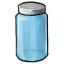
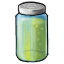
Org

diff --git a/src/nurgling/actions/bots/registry/BotRegistry.java b/src/nurgling/actions/bots/registry/BotRegistry.java
@@ -4,13 +4,14 @@ import nurgling.actions.*;
 import nurgling.actions.bots.farmers.PumpkinFarmer;
 import nurgling.actions.bots.*;
 import nurgling.actions.bots.CarrotFarmerQ;
-import nurgling.actions.bots.silk.ArrangeSilkmothPairs;
+import nurgling.actions.bots.pickling.GlobalFreshFillingPhase;
 import nurgling.actions.bots.silk.RefillSilkwormFeedingCupboards;
 import nurgling.actions.bots.silk.SilkProductionBot;
 import nurgling.actions.bots.CollectSwillInArea;
 import nurgling.actions.bots.farmers.WheatFarmer;
 import nurgling.actions.bots.farmers.YellowOnionFarmer;
 import nurgling.actions.test.*;
+import nurgling.actions.bots.pickling.PicklingBot;
 
 import java.util.*;
 import java.util.stream.Collectors;
@@ -68,6 +69,8 @@ public class BotRegistry {
         // Silk
         bots.add(new BotDescriptor("mulberry_leaf_refiller", BotDescriptor.BotType.PRODUCTIONS, "Refill silkworm cupboards with mulberry leafs", "Refill silkworm cupboards with mulberry leafs.", true, true, RefillSilkwormFeedingCupboards.class, "mulberry_leaf", false));
         bots.add(new BotDescriptor("silk_production", BotDescriptor.BotType.PRODUCTIONS, "Manages silk production starting at eggs all the way to silkworm cocoons.", "Silk cocoons production.", true, true, SilkProductionBot.class, "silkworm_cocoon", false));
+
+        bots.add(new BotDescriptor("pickling", BotDescriptor.BotType.PRODUCTIONS, "Pickling Bot", "Complete automated pickling system. Manages brine levels, fills jars with fresh vegetables, extracts ready pickled items, and maintains continuous production cycle.", true, true, PicklingBot.class, "pickle", true));
 
         // BATTLE
         bots.add(new BotDescriptor("reagro", BotDescriptor.BotType.BATTLE, "Reagro", "Reagros enemies.", true, true, Reagro.class, "reagro", false));
@@ -193,10 +196,10 @@ public class BotRegistry {
         bots.add(new BotDescriptor("test37", BotDescriptor.BotType.TOOLS, "Jar Filler With Beetroots", "Finds pickling jars with available space and fills them with beetroots from player inventory.", false, true, JarFillerWithBeetroots.class, "test37", false));
         bots.add(new BotDescriptor("test38", BotDescriptor.BotType.TOOLS, "Pickling Brine Filler", "Fills pickling jars with brine from nearby barrels. Takes multiple trips as needed.", false, true, PicklingBrineFiller.class, "test38", false));
 
-        bots.add(new BotDescriptor("test39", BotDescriptor.BotType.TOOLS, "Pickling Brine Filler", "Fills pickling jars with brine from nearby barrels. Takes multiple trips as needed.", false, true, GlobalBrinePhase.class, "test39", false));
+        bots.add(new BotDescriptor("test39", BotDescriptor.BotType.TOOLS, "Pickling Brine Filler", "Fills pickling jars with brine from nearby barrels. Takes multiple trips as needed.", false, true, nurgling.actions.bots.pickling.GlobalBrinePhase.class, "test39", false));
         bots.add(new BotDescriptor("test40", BotDescriptor.BotType.TOOLS, "Debug Container Contents", "Debug tool to see what items are actually in containers and test alias matching.", false, true, DebugContainerContents.class, "test40", false));
         bots.add(new BotDescriptor("test41", BotDescriptor.BotType.TOOLS, "Global Fresh Filling Phase", "Fills pickling jars with beetroots from vegetable storage area. Uses global phase processing for efficiency.", false, true, GlobalFreshFillingPhase.class, "test41", true));
-        bots.add(new BotDescriptor("test42", BotDescriptor.BotType.TOOLS, "Global Fresh Filling Phase", "Fills pickling jars with beetroots from vegetable storage area. Uses global phase processing for efficiency.", false, true, GlobalExtractionPhase.class, "test42", false));
+        bots.add(new BotDescriptor("test42", BotDescriptor.BotType.TOOLS, "Global Fresh Filling Phase", "Fills pickling jars with beetroots from vegetable storage area. Uses global phase processing for efficiency.", false, true, nurgling.actions.bots.pickling.GlobalExtractionPhase.class, "test42", false));
     }
 
     public static BotDescriptor byId(String id) {

diff --git a/src/nurgling/actions/bots/pickling/PicklingBot.java b/src/nurgling/actions/bots/pickling/PicklingBot.java
@@ -1,0 +1,38 @@
+package nurgling.actions.bots.pickling;
+
+import nurgling.NGameUI;
+import nurgling.actions.Action;
+import nurgling.actions.Results;
+
+public class PicklingBot implements Action {
+
+    @Override
+    public Results run(NGameUI gui) throws InterruptedException {
+        while (true) {
+            // Phase 1: Fill pickling jars with fresh inputs (We have to do this to make sure we don't overfill jars
+            // with brine)
+            Results fillResult = new GlobalFreshFillingPhase().run(gui);
+            if (!fillResult.isSuccess) {
+                return Results.FAIL();
+            }
+
+            // Phase 2: Re-fill brine
+            Results brineResult = new GlobalBrinePhase().run(gui);
+            if (!brineResult.isSuccess) {
+                return Results.FAIL();
+            }
+
+            // Phase 3: Extract all ready items
+            Results extractResult = new GlobalExtractionPhase().run(gui);
+            if (!extractResult.isSuccess) {
+                return Results.FAIL();
+            }
+
+            // Phase 4: Fill pickling jars with fresh inputs again
+            Results refillResult = new GlobalFreshFillingPhase().run(gui);
+            if (!refillResult.isSuccess) {
+                return Results.FAIL();
+            }
+        }
+    }
+}

diff --git a/src/nurgling/actions/bots/pickling/GlobalBrinePhase.java b/src/nurgling/actions/bots/pickling/GlobalBrinePhase.java
@@ -1,10 +1,14 @@
-package nurgling.actions;
+package nurgling.actions.bots.pickling;
 
 import haven.WItem;
 import nurgling.NGameUI;
 import nurgling.NInventory;
 import nurgling.NGItem;
 import nurgling.NUtils;
+import nurgling.actions.Action;
+import nurgling.actions.CloseTargetContainer;
+import nurgling.actions.OpenTargetContainer;
+import nurgling.actions.Results;
 import nurgling.tasks.NTask;
 import nurgling.tasks.ISRemoved;
 import nurgling.tools.Container;

diff --git a/src/nurgling/actions/bots/pickling/GlobalExtractionPhase.java b/src/nurgling/actions/bots/pickling/GlobalExtractionPhase.java
@@ -1,4 +1,4 @@
-package nurgling.actions;
+package nurgling.actions.bots.pickling;
 
 import haven.Widget;
 import haven.WItem;
@@ -6,6 +6,7 @@ import nurgling.NGameUI;
 import nurgling.NInventory;
 import nurgling.NGItem;
 import nurgling.NUtils;
+import nurgling.actions.*;
 import nurgling.tasks.ISRemoved;
 import nurgling.tasks.NTask;
 import nurgling.tools.Container;

diff --git a/src/nurgling/actions/bots/pickling/GlobalFreshFillingPhase.java b/src/nurgling/actions/bots/pickling/GlobalFreshFillingPhase.java
@@ -1,4 +1,4 @@
-package nurgling.actions;
+package nurgling.actions.bots.pickling;
 
 import haven.Widget;
 import haven.WItem;
@@ -7,6 +7,7 @@ import nurgling.NGameUI;
 import nurgling.NInventory;
 import nurgling.NGItem;
 import nurgling.NUtils;
+import nurgling.actions.*;
 import nurgling.tasks.ISRemoved;
 import nurgling.tasks.NTask;
 import nurgling.tools.Container;
